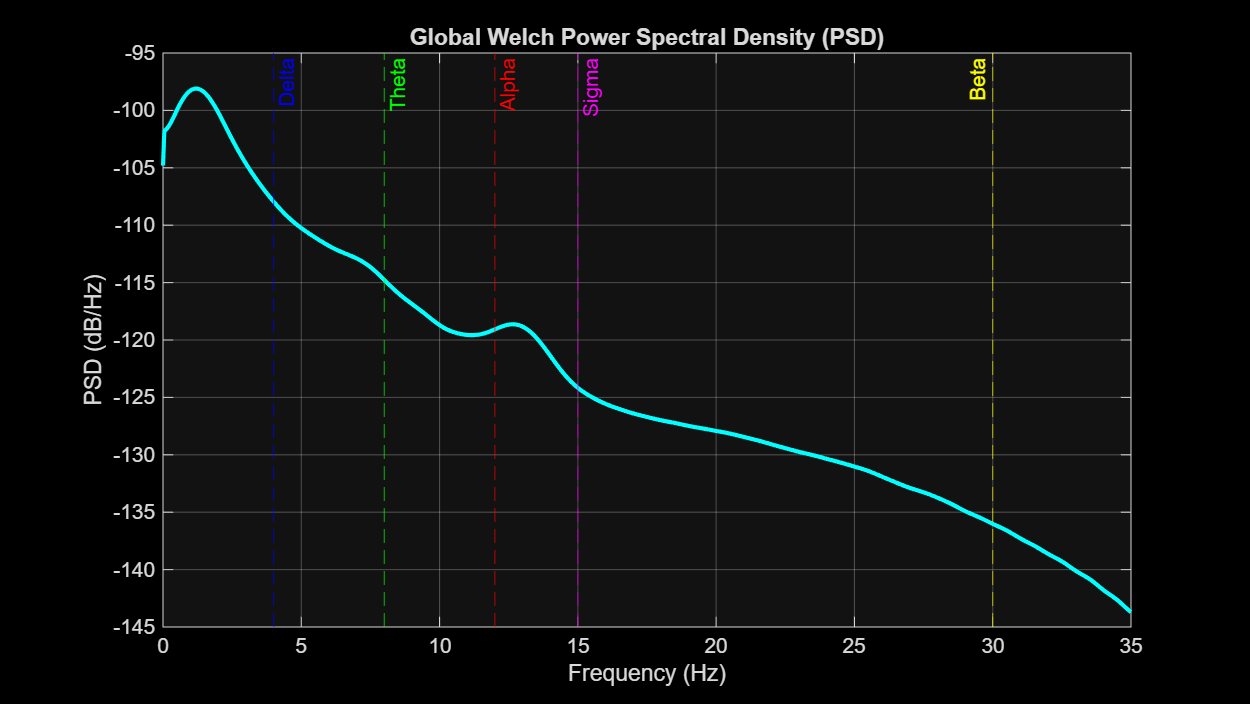
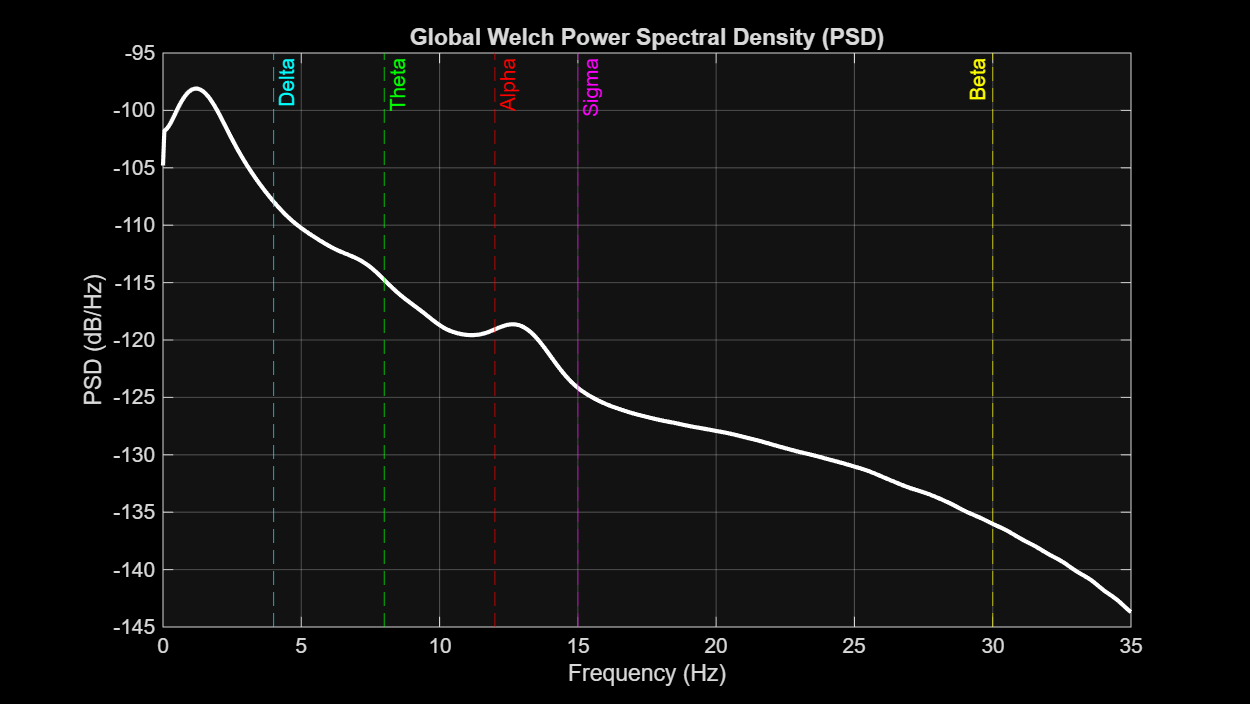
V 1.7
Fig 1: Color Changed
Fig 2: PSD Signal's Color Changed + Bands Color Matching Among Different Figures
Fig 3: Bands Color Matching Among Different Figures
Fig 4: Text Color Changed => Black
Fig 5: Hypnogram's Color Changed

diff --git a/main4.m b/main4.m
@@ -1,12 +1,14 @@
 % =========================================================================
-% SLEEP STAGE ANALYSIS (UNIFIED VERSION)
-% Preprocessing & Hypnogram by MReza
-% Welch PSD, Frequency Bands & Statistical Analysis by Negin
+% SLEEP STAGE ANALYSIS 
+% BSP_Team04Topic01_Code
+% TOPIC 1:	EEG during sleep
+% Detect the different stages of sleep based on changes in the EEG signal characteristics.
+% Group Members: Ali Jamshidian, Negin Rajabi , Mohammadreza Iravani, Narges Abdoliashtiani
 % =========================================================================
 
 clearvars; close all; clc;
 
-%% 1. PREPROCESSING (From MReza's Code)
+%% 1. PREPROCESSING
 fprintf('Loading data.mat and NotchFilter.mat...\n');
 load('data.mat', 'dati');   
 Fs = double(dati.fs);               
@@ -32,7 +34,6 @@ epoch_sec = 30;
 window_length = round(Fs * epoch_sec);
 nEpochs = floor(length(EEG_filtered) / window_length);
 
-% --- Negin's Variables (Welch PSD & Temporal Stats) ---
 bandNames = {'Delta','Theta','Alpha','Sigma','Beta'}; 
 bands = [ 0.5 4; 4 8; 8 12; 12 15; 15 30];
 nBands = size(bands, 1);
@@ -46,7 +47,6 @@ welchWindow = hamming(round(Fs));
 welchOverlap = floor(length(welchWindow)/2); 
 nfftWelch = 2048;
 
-% --- MReza's Variables (Features for Hypnogram & Plotting) ---
 % STFT parameters (Defined globally to prevent plotting errors)
 segment_length = round(Fs * 1);    
 noverlap_stft  = round(Fs * 0.5);        
@@ -66,7 +66,7 @@ Plot_Beta  = zeros(1, nEpochs);
 
 fprintf('Processing %d epochs for PSD and Hypnogram features...\n', nEpochs);
 
-%% 3. MAIN LOOP: NEGIN'S PSD + MREZA'S HYPNOGRAM FEATURES
+%% 3. MAIN LOOP: HYPNOGRAM FEATURES
 for k = 1:nEpochs
     start_idx = (k - 1) * window_length + 1;
     end_idx   = k * window_length;
@@ -74,7 +74,7 @@ for k = 1:nEpochs
     time_min(k) = (start_idx + window_length/2) / (Fs * 60);
     
     % ========================================================
-    % A. Negin's Statistical & Welch PSD Analysis
+    % A. Statistical & Welch PSD Analysis
     % ========================================================
     RMS_val(k) = sqrt(mean(epoch_data.^2));
     SignalStd(k) = std(epoch_data);
@@ -92,7 +92,7 @@ for k = 1:nEpochs
     end
     
     % ========================================================
-    % B. MReza's STFT Features (For AASM Stage Detection & Plots)
+    % B. STFT Features (For AASM Stage Detection & Plots)
     % ========================================================
     [PSD_stft, f_s] = spectrogram(epoch_data, hamming(segment_length), noverlap_stft, nfft_stft, Fs, 'yaxis');
     PSD_stft = abs(PSD_stft).^2;
@@ -103,7 +103,7 @@ for k = 1:nEpochs
     alpha_pow = sum(Norm_PSD((f_s>=8   & f_s<=12), :), 1);
     sigma_pow = sum(Norm_PSD((f_s>=12  & f_s<=14), :), 1);
     
-    % MReza's percentiles based on Huang 2014
+    % Percentiles based on Huang 2014
     sw_sorted = sort(sw_pow, 'ascend');
     STFT_SlowWave(k) = mean(sw_sorted(end - floor(0.8*59) + 1 : end)); % Upper 80%
     
@@ -120,7 +120,7 @@ for k = 1:nEpochs
     Plot_Beta(k)  = mean(sum(Norm_PSD((f_s>=15  & f_s<=30), :), 1));
 end
 
-%% 4. KNOWLEDGE-BASED STAGE DETECTION (MReza's Logic)
+%% 4. KNOWLEDGE-BASED STAGE DETECTION
 fprintf('Detecting sleep stages...\n');
 Detected_Stage = strings(1, nEpochs);
 
@@ -143,23 +143,23 @@ end
 %% 5. GENERATE PRESENTATION FIGURES
 fprintf('Saving figures for presentation...\n');
 
-% --- Slide 1: Preprocessing (MReza) ---
+% --- Slide 1: Preprocessing ---
 fig1 = figure('Name', 'Preprocessing', 'Position', [100 100 800 500]);
 t_30s = (0:window_length-1) / Fs;
-subplot(2,1,1); plot(t_30s, EEG_raw(1:window_length), 'Color', [0.6 0.6 0.6]);
+subplot(2,1,1); plot(t_30s, EEG_raw(1:window_length), 'w');
 title('Raw EEG Signal'); xlabel('Time [s]'); ylabel('Amplitude'); grid on;
-subplot(2,1,2); plot(t_30s, EEG_filtered(1:window_length), 'b');
+subplot(2,1,2); plot(t_30s, EEG_filtered(1:window_length), 'c');
 title('Filtered EEG (Detrend + Notch + Bandpass)'); xlabel('Time [s]'); ylabel('Amplitude'); grid on;
 saveas(fig1, 'Slide1_Preprocessing.png');
 
-% --- Slide 2: Global Welch PSD (Negin) ---
+% --- Slide 2: Global Welch PSD ---
 fig2 = figure('Name', 'Global Welch PSD', 'Position', [150 150 800 450]);
 [pxx_glob, f_glob] = pwelch(EEG_filtered, welchWindow, welchOverlap, nfftWelch, Fs);
-plot(f_glob, 10*log10(pxx_glob+eps), 'c', 'LineWidth', 2);
+plot(f_glob, 10*log10(pxx_glob+eps), 'w', 'LineWidth', 2);
 xlim([0 35]); 
 title('Global Welch Power Spectral Density (PSD)');
 xlabel('Frequency (Hz)'); ylabel('PSD (dB/Hz)'); grid on;
-xline(4, '--b', 'Delta'); 
+xline(4, '--c', 'Delta'); 
 xline(8, '--g', 'Theta'); 
 xline(12, '--r', 'Alpha'); 
 xline(15, '--m', 'Sigma'); 
@@ -179,7 +179,7 @@ title('STFT Spectrogram');
 ylabel('Frequency (Hz)');
 cb = colorbar; cb.Label.String = 'Power/frequency (dB/Hz)';
 
-ax(2) = subplot(6,1,2); plot(time_min, Plot_Delta, 'b', 'LineWidth', 1.5); 
+ax(2) = subplot(6,1,2); plot(time_min, Plot_Delta, 'c', 'LineWidth', 1.5); 
 title('Delta Band (0.5 - 4 Hz)'); ylabel('Power'); grid on;
 
 ax(3) = subplot(6,1,3); plot(time_min, Plot_Theta, 'g', 'LineWidth', 1.5); 
@@ -202,7 +202,7 @@ xlim(ax(1), [0, time_min(end)]);
 
 saveas(fig3, 'Slide3_STFT_All_Bands.png');
 
-% --- Slide 4: Statistical Correlation Matrix (Negin) ---
+% --- Slide 4: Statistical Correlation Matrix ---
 fig4 = figure('Name', 'Correlation Matrix', 'Position', [250 250 600 500]);
 corrMatrix = corr(RelativeBandPower, 'Rows', 'pairwise');
 imagesc(corrMatrix); colorbar; clim([-1 1]); colormap('parula');
@@ -211,19 +211,19 @@ xticklabels(bandNames); yticklabels(bandNames);
 title('Correlation of Relative Band Powers');
 for r = 1:nBands 
     for c = 1:nBands 
-        text(c, r, sprintf('%.2f', corrMatrix(r,c)), 'HorizontalAlignment', 'center', 'Color', 'w', 'FontWeight', 'bold');
+        text(c, r, sprintf('%.2f', corrMatrix(r,c)), 'HorizontalAlignment', 'center', 'Color', 'k', 'FontWeight', 'bold');
     end 
 end
 saveas(fig4, 'Slide4_Correlation_Matrix.png');
 
-% --- Slide 5: Hypnogram Output (MReza) ---
+% --- Slide 5: Hypnogram Output ---
 fig5 = figure('Name', 'Hypnogram', 'Position', [300 300 900 400]);
 stage_num = zeros(1, nEpochs);
 stage_num(Detected_Stage == "Wake") = 0;
 stage_num(Detected_Stage == "N1 / REM") = -1;
 stage_num(Detected_Stage == "N2") = -2;
 stage_num(Detected_Stage == "N3") = -3;
-stairs(time_min, stage_num, 'LineWidth', 2, 'Color', 'b');
+stairs(time_min, stage_num, 'LineWidth', 2, 'Color', 'c');
 yticks([-3, -2, -1, 0]); yticklabels({'N3 (Deep)', 'N2 (Light)', 'N1 / REM', 'Wake'});
 ylim([-3.5 0.5]); xlabel('Time [minutes]'); ylabel('Sleep Stage');
 title('Automated Hypnogram (AASM Rules)'); grid on;
